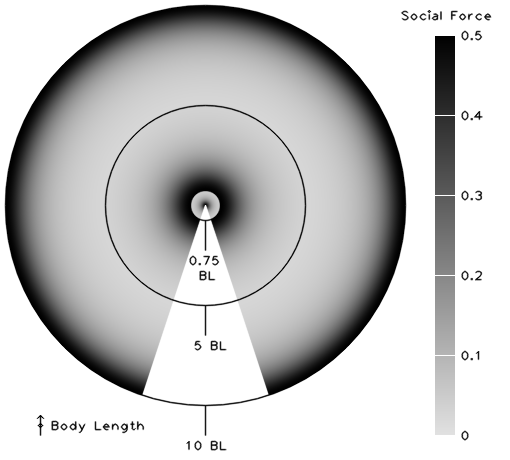
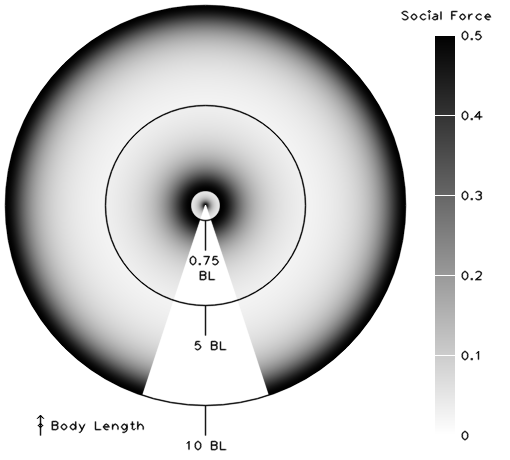
update environment

Changed region(s): [[0.0882, 0.0913, 0.7059, 0.7609], [0.8529, 0.7609, 0.9118, 0.9435], [0.3529, 0.3957, 0.4412, 0.487]]

diff --git a/fish_mod.cpp b/fish_mod.cpp
@@ -16,11 +16,17 @@
 using namespace std;
 using namespace cv;
 
-#define w 1400
-#define h 700
-#define num 100
-#define rows 4
-#define cols 10
+#define latitude 14
+#define longitude 7
+#define resolution 5 // must be 100 > resolution > 1
+#define res_factor 20 // should be: res_factor * resolution = 100
+
+#define w (latitude * resolution * res_factor)
+#define h (longitude * resolution * res_factor)
+#define rows (longitude*resolution)
+#define cols (latitude*resolution)
+
+#define num 80
 
 const int sp_max = 50;
 int sp;
@@ -34,6 +40,7 @@ uniform_int_distribution<int>distrib_choice(0,1);
 uniform_int_distribution<int>distrib_error(-10,10);
 uniform_int_distribution<int>distrib_randomwalk(-45,45);
 uniform_int_distribution<int>distrib_quality(0,10);
+uniform_int_distribution<int>distrib_seed(0,10);
 
 class individuals{
 
@@ -43,36 +50,36 @@ class individuals{
     int dim;
     int colors[num][3];     // individual color in RGB
     int nfollow;
+    int state [num];       // state of movement (directed/random)
 
     double dspeed;          // dspeed+1 = lag-phase / swim speed
-    double speed;           // movement speed
+    double speed[num];           // movement speed
     double lag [num];       // length n
     double coords [num][2]; // height n * width dim
     double dir [num];       // array of agles between 0 - 360 degrees for each individual
 
-    bool state [num];       // state of movement (directed/random)
   };
 
 int in_zone(individuals inds,int id, int fov,double r); // fov: field of view as angle
-int on_trackbar_nfollow(int,void*);
-int lag(bool state, int lag);
+// int on_trackbar_nfollow(int,void*);
+int lag(int state, int lag);
 int get_quality(individuals inds, int id, int quality[][cols]);
+int state(individuals inds, int id);
 
 void move(individuals& inds, int quality[][cols]);
 void initialize(individuals& inds,int n, int dim, double speed, double dspeed, int nfollow);
 void drawfish(individuals inds, Mat fish_image);
 void correct_coords(double* coords);
 void create_environment(Mat& environment,int quality[][cols]);
-
-double on_trackbar_dspeed(int,void*);
-double on_trackbar_speed(int,void*);
+void feed(individuals inds, int quality[][cols],Mat& environment);
+// double on_trackbar_dspeed(int,void*);
+// double on_trackbar_speed(int,void*);
 double correctangle(double dir);
 double social(individuals inds,int id,int fov);
 double collision(individuals inds, int id, double newdir);
 double getangle(double* focal_coords, double focal_dir, double* position);
 double averageturn(vector<double> vec);
 
-bool state(individuals inds, int id);
 
 int main(){
   // cout << "Created using: OpenCV version 2.4.13" << endl;
@@ -96,17 +103,18 @@ int main(){
   // imshow(env_window,environment);
 
   individuals fish;
-  fish.speed = 1;
-  fish.dspeed = 5;
-  fish.nfollow = 100;
-  fish.dim = 2;
-
-  initialize(fish,num,fish.dim,fish.speed,fish.dspeed,fish.nfollow); // initialize: object fish,num individuals, dimensions,speed,dspeed,n individuals to follow
+  // required for trakcbar initiation
+  // fish.speed = 1;
+  // fish.dspeed = 5;
+  // fish.nfollow = 0;
+  // fish.dim = 2;
+  initialize(fish,num,2,5,0,num); // initialize: object fish,num individuals, dimensions,speed,dspeed,n individuals to follow
 
   for(int z = 0; z < 10000; z++){
       // plot fish on black background
       fish_image = Mat::zeros(h,w,CV_8UC3);
 
+      feed(fish,quality,environment);
       move(fish,quality);
       drawfish(fish,fish_image);
       // cvtColor(fish_image,fish_mask,CV_BGR2GRAY);
@@ -115,45 +123,45 @@ int main(){
       addWeighted(fish_image,1,environment,0.1,10,fishinenvironment);
       imshow(fish_window,fishinenvironment);
 
-      char speed_trackbar[10];  // create trackbar in "Fish" window for changing speed
-      sprintf(speed_trackbar,"%g",fish.speed);
-      createTrackbar("Speed","Fish",&sp,sp_max);
-      fish.speed = on_trackbar_speed(fish.speed,0);
-
-      char dspeed_trackbar[10];  // create trackbar in "Fish" window for changing speed
-      sprintf(dspeed_trackbar,"%g",fish.dspeed);
-      createTrackbar("DSpeed","Fish",&dsp,dsp_max);
-      fish.dspeed = on_trackbar_dspeed(fish.dspeed,0);
-
-      char nfollow_trackbar[10];  // create trackbar in "Fish" window for changing speed
-      sprintf(nfollow_trackbar,"%i",fish.nfollow);
-      createTrackbar("N-Follow","Fish",&nf,nf_max);
-      fish.nfollow = on_trackbar_nfollow(fish.nfollow,0);
+      // char speed_trackbar[10];  // create trackbar in "Fish" window for changing speed
+      // sprintf(speed_trackbar,"%g",fish.speed);
+      // createTrackbar("Speed","Fish",&sp,sp_max);
+      // fish.speed = on_trackbar_speed(fish.speed,0);
+      //
+      // char dspeed_trackbar[10];  // create trackbar in "Fish" window for changing speed
+      // sprintf(dspeed_trackbar,"%g",fish.dspeed);
+      // createTrackbar("DSpeed","Fish",&dsp,dsp_max);
+      // fish.dspeed = on_trackbar_dspeed(fish.dspeed,0);
+      //
+      // char nfollow_trackbar[10];  // create trackbar in "Fish" window for changing speed
+      // sprintf(nfollow_trackbar,"%i",fish.nfollow);
+      // createTrackbar("N-Follow","Fish",&nf,nf_max);
+      // fish.nfollow = on_trackbar_nfollow(fish.nfollow,0);
 
       waitKey(60);
     }
     return(0);
   }
 
-int on_trackbar_nfollow(int,void*)
-  {
-  return nf;
-  }
-
-double on_trackbar_dspeed(int,void*)
-  {
-  return dsp;
-  }
-
-double on_trackbar_speed(int,void*)
-  {
-    return sp;
-  }
+// int on_trackbar_nfollow(int,void*)
+//   {
+//   return nf;
+//   }
+//
+// double on_trackbar_dspeed(int,void*)
+//   {
+//   return dsp;
+//   }
+//
+// double on_trackbar_speed(int,void*)
+//   {
+//     return sp;
+//   }
 
 void move(individuals& inds,int quality[][cols]){
-  for(int id = 0; id < inds.n;id++){
 
-    inds.state[id] = 1 - get_quality(inds,id,quality);//state(inds, id);
+  for(int id = 0; id < inds.n;id++){
+    // inds.state[id] = 10 - get_quality(inds,id,quality);//state(inds, id);
     // inds.state[id] = state(inds, id);
     double dir = correctangle(inds.dir[id]);
     double turn = social(inds,id,330) + distrib_error(rd); // maximum error of movement is +- 5°
@@ -161,9 +169,23 @@ void move(individuals& inds,int quality[][cols]){
     dir = dir + turn;
 
     inds.lag[id] = lag(inds.state[id],inds.lag[id]);
-    inds.coords[id][0] =  inds.coords[id][0] + (inds.state[id]*inds.dspeed+1) * inds.speed * cos(dir * M_PI / 180);
-    inds.coords[id][1] = inds.coords[id][1] + (inds.state[id]*inds.dspeed+1) * inds.speed * sin(dir * M_PI/ 180);
+
+    // make movement dependent on environment
+    int q = get_quality(inds,id,quality);
+    int stop_n_go = distrib_quality(rd);
+
+    if(stop_n_go < q){
+      inds.speed[id] = 0;
+    }
+    else{
+      inds.speed[id] = 5;
+    }
+    // inds.coords[id][0] =  inds.coords[id][0] + (inds.state[id]*inds.dspeed+1) * inds.speed[id] * cos(dir * M_PI / 180);
+    // inds.coords[id][1] = inds.coords[id][1] + (inds.state[id]*inds.dspeed+1) * inds.speed[id] * sin(dir * M_PI/ 180);
+    inds.coords[id][0] =  inds.coords[id][0] + inds.speed[id] * cos(dir * M_PI / 180);
+    inds.coords[id][1] = inds.coords[id][1] + inds.speed[id] * sin(dir * M_PI/ 180);
     correct_coords(inds.coords[id]);
+
     inds.dir[id] = dir;
   }
 }
@@ -171,13 +193,13 @@ void move(individuals& inds,int quality[][cols]){
 void initialize(individuals& inds, int n ,int dim, double speed, double dspeed, int nfollow){
   inds.n = n;
   inds.dim = dim;
-  inds.speed = speed;
   inds.dspeed = dspeed;
   inds.nfollow = nfollow;
 
   for(int i = 0; i < inds.n; i++){
 
     inds.lag[i] = 0;
+    inds.speed[i] = speed;
     inds.colors[i][0] = 80 + rand()%155;
     inds.colors[i][1] = 80 + rand()%155;
     inds.colors[i][2] = 80 + rand()%155;
@@ -207,8 +229,8 @@ void drawfish(individuals inds, Mat fish_image){
     Point head(inds.coords[i][0] + 10 * cos(inds.dir[i] * M_PI / 180),inds.coords[i][1] + 10 * sin(inds.dir[i] * M_PI / 180));
 
     circle(fish_image,center,2,fishcol,1,CV_AA,0);            // visualize center
-    // circle(fish_image,center,100,fishcol,1,CV_AA,0);           // visualize comfort zone
-    // circle(fish_image,center,200,fishcol,1,CV_AA,0);           // visualize visual distance
+    // circle(fish_image,center,100,fishcol,1,CV_AA,0);       // visualize comfort zone
+    // circle(fish_image,center,200,fishcol,1,CV_AA,0);       // visualize visual distance
     // char angle[10];
     // sprintf(angle,"%g",inds.dir[i]);
     // putText(fish_image,angle,center,1,1,fishcol,1,8);
@@ -261,15 +283,15 @@ int in_zone(individuals inds,int id,int fov,double r){
   return c;
 }
 
-bool state(individuals inds, int id){
-  bool state = 0;
+int state(individuals inds, int id){
+  int state = 0;
   if(in_zone(inds,id,180,200) >= inds.nfollow && inds.lag[id] == 0){
     state = 1;
   }
   return state;
 }
 
-int lag(bool state, int lag){
+int lag(int state, int lag){
   if(state == 0){
     if(lag == 0){  // individual lag phase
       lag = rand()%10;
@@ -504,16 +526,61 @@ void correct_coords(double* coords){
 }
 
 void create_environment(Mat& environment,int quality[][cols]){
-  for(int i =0;i<cols;i++){
-    for(int u=0;u<rows;u++){
-      quality[u][i] = distrib_quality(rd);
+  int seed = distrib_seed(rd);
+  for(int u=0;u<rows;u++){
+     for(int i =0;i<cols;i++){
+       quality[u][i] = 0;
+     }
+   }
+
+  if(seed > 0){
+  int seed_coords[seed][2];
+  uniform_int_distribution<int>distrib_rows(0,rows);
+  uniform_int_distribution<int>distrib_cols(0,cols);
+
+  for(int i = 0; i < seed;i++){
+    seed_coords[i][0] = distrib_rows(rd);
+    seed_coords[i][1] = distrib_cols(rd);
+    quality[seed_coords[i][0]][seed_coords[i][1]] = 10;
+      }
     }
-  }
+  int p = 0;
+  while(p == 0){
+    for(int u=0;u<rows;u++){
+        for(int i =0;i<cols;i++){
+          if(quality[u-1][i-1]  <= p||quality[u-1][i] <= p||quality[u-1][i+1] <= p ||quality[u][i-1] <= p||quality[u][i+1] <= p||quality[u+1][i-1] <= p||quality[u+1][i] <= p||quality[u+1][i+1] <= p){
+            quality[u][i] = distrib_quality(rd);
+          }
+        }
+      }
+      p++;
+    }
+
+  //
+  // for(int u=0;u<rows;u++){
+  //   for(int i =0;i<cols;i++){
+  //     if(i == 0 && u == 0){
+  //       quality[u][i] = distrib_quality(rd);
+  //     }
+  //     else if(i==0){
+  //       quality[u][i] = (quality[u-1][i] + quality[u-1][i+1] + distrib_quality(rd))/3;
+  //     }
+  //     else if(u==0){
+  //       quality[u][i] = (quality[u][i-1] + distrib_quality(rd))/2;
+  //     }
+  //     else if(i==(cols-1)){
+  //       quality[u][i] = (quality[u-1][i] + quality[u-1][i-1] + quality[u-1][i] + distrib_quality(rd))/4;
+  //     }
+  //     else{
+  //       quality[u][i] = (quality[u-1][i-1] + quality[u][i-1] + quality[u-1][i] + quality[u-1][i+1] + distrib_quality(rd))/5;
+  //     }
+  //   }
+  // }
   // Color squares according to quality
-  for(int i = 0;i < w;i++){
-    for(int u = 0; u < h;u++){
-      int q_color = quality[u/(h/rows)][i/(w/cols)];
-          environment.at<Vec3b>(u,i)= Vec3b(q_color*(255),q_color*(255),q_color*(255));
+  for(int x = 0;x < w;x++){
+    for(int y = 0; y < h;y++){
+      int q_color = quality[y/(h/rows)][x/(w/cols)];
+          environment.at<Vec3b>(y,x)= Vec3b(q_color*(255/10),q_color*(255/10),q_color*(255/10));
     }
   }
 }
@@ -521,6 +588,31 @@ void create_environment(Mat& environment,int quality[][cols]){
 int get_quality(individuals inds, int id, int quality[][cols]){
   int x = inds.coords[id][0];
   int y = inds.coords[id][1];
-  int q = quality[y /(h/rows)][x/(w/cols)];
+  int q = quality[y/(h/rows)][x/(w/cols)];
   return q;
+}
+
+void feed(individuals inds, int quality[][cols],Mat& environment){
+  for(int id = 0; id < inds.n;id++){
+    int x = inds.coords[id][0];
+    int y = inds.coords[id][1];
+
+    int q =  quality[y/(h/rows)][x/(w/cols)];
+    if(q>0){
+      quality[y /(h/rows)][x/(w/cols)] = q - 1;
+      q = q -1;
+    }
+
+    // determining box in quality matrix
+    int y_min = y/(h/rows);
+    y_min = y_min * (h/rows);
+    int y_max = y_min + (h/rows);
+
+    int x_min = x/(w/cols);
+    x_min = x_min * (w/cols);
+    int x_max = x_min + (w/cols);
+
+    // draw environment boxes as filled rectangles
+    rectangle(environment,Point(x_min,y_min),Point(x_max-1,y_max-1),Scalar(q*(255/10),q*(255/10),q*(255/10)),-1,8,0);
+  }
 }

diff --git a/heatmap.cpp b/heatmap.cpp
@@ -42,7 +42,7 @@ int main(){
     for(int y = 35 ;y < 436;y++){
         // double d = abs(y-405)/2;
         // s = 1 / ( 0.01 * pow((d-200),2) + 2);
-        heatmap_image_grey.at<Vec3b>(y,x) = Vec3b(30+(450*s),30+(450*s),30+(450*s));
+        heatmap_image_grey.at<Vec3b>(y,x) = Vec3b((510*s),(510*s),(510*s));
         s = s - (0.5/400);
     }
   }
@@ -97,7 +97,7 @@ int main(){
 
   imshow(heatmap_window,invert_out);
 
-  imwrite( "Social heat map.png", invert_out);
+  // imwrite( "Social heat map.png", invert_out);
 
   waitKey();
 
@@ -109,14 +109,14 @@ void paint(int x, int y,Mat image){
   double d = sqrt(pow((205-x),2)+pow((205-y),2));
   if(d < 15){
     s = 1 / ( 0.1 * pow((d),2) + 2 );
-    image.at<Vec3b>(y,x) = Vec3b(30+(450*s),30+(450*s),30+(450*s));
+    image.at<Vec3b>(y,x) = Vec3b((510*s),(510*s),(510*s));
   }
   else if(d >= 15 && d < 100){
     s = 1 / (0.004 * pow((d-15),2) + 2);
-    image.at<Vec3b>(y,x) = Vec3b(30+(450*s),30+(450*s),30+(450*s));
+    image.at<Vec3b>(y,x) = Vec3b((510*s),(510*s),(510*s));
   }
   else if(d >= 100 && d < 200){
     s = (1 / ( 0.004 * pow((d-200),2) + 2 ));
-    image.at<Vec3b>(y,x) = Vec3b(30+(450*s),30+(450*s),30+(450*s));
+    image.at<Vec3b>(y,x) = Vec3b((510*s),(510*s),(510*s));
   }
 }
